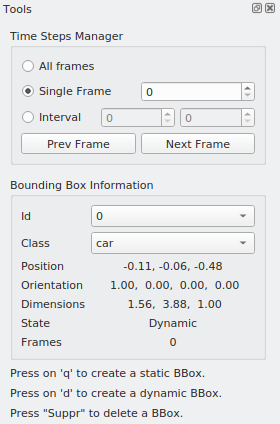
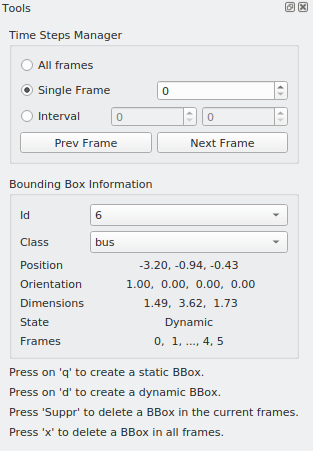
Add possibility to remove a BBox from all the dataset with 'x'

diff --git a/src/MainWindow.h b/src/MainWindow.h
@@ -98,7 +98,7 @@ public:
   // edit only the BBox pose and dimensions
   void editBoundingBox(int index);
 
-  void deleteBoundingBox();
+  void deleteBoundingBox(bool allFrames);
 
   void updateBoundingBoxInstanceId(int index, unsigned int id);
 

diff --git a/README.md b/README.md
@@ -62,7 +62,7 @@ example_data/
 ```
 
 
-You can add a new bounding box using 'q' (for a static BBox) or 'd' (for a dynamic one).
+You can add a new bounding box using **"q"** (for a static BBox) or **"d"** (for a dynamic one).
 To create a BBox around a specific point, double-click on it before pressing 'q' or 'd'.
 
 The software has an automatic saving functionality. Once you have saved your work, it will be saved automatically every 3 minutes.
@@ -76,6 +76,8 @@ The software has an automatic saving functionality. Once you have saved your wor
 
 You can choose to display a all the frames, a single frame or the frame in a specific interval. Below, you can see the information about the currently selected bounding box. You can also edit its id and class.
 
+You can add a new static BBox with **"q"** or a new dynamic BBox with **"d"**.
+You can remove a BBox from one frame with **"Suppr"** or completely an object with **"x"**.
 
 ### Display tab
 
